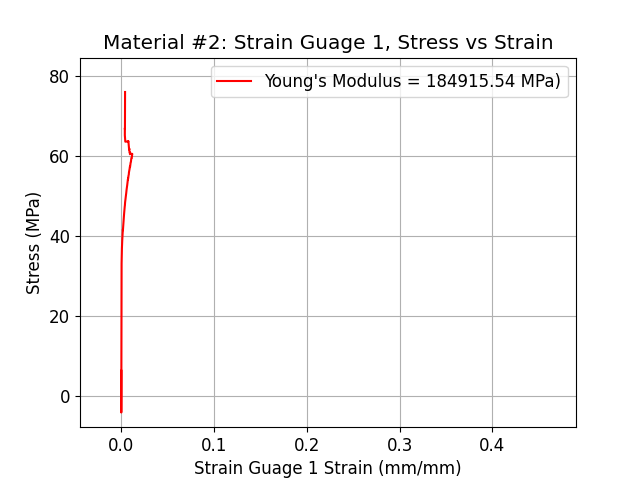
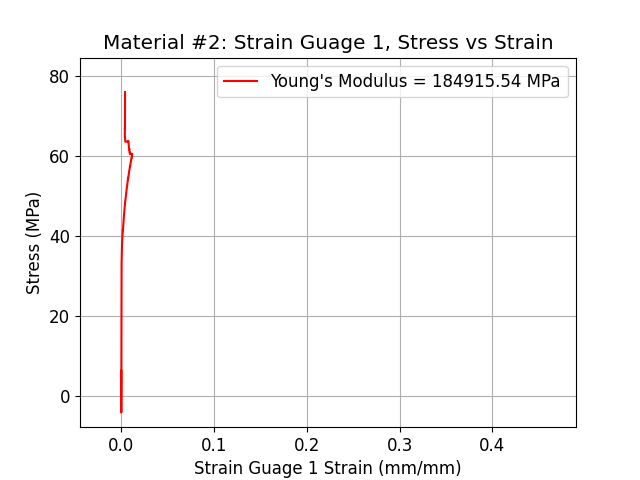
Labels

Changed region(s): [[0.4062, 0.1562, 0.875, 0.1875], [0.3125, 0.125, 0.3438, 0.1875]]

diff --git a/src/graphing.py b/src/graphing.py
@@ -57,16 +57,16 @@ def StrainGraph(data: pd.DataFrame, test_num: np.int8, sensor: np.array, modulus
         if s in ['Laser', 'Strain Guage 2', 'Strain Guage 1']:
             
             if s == 'Laser':
-                plt.scatter(ultimate_strength[0], ultimate_strength[1], s=50)
                 mod = modulus[0]
                 plt.scatter(yield_strength[0], yield_strength[1], s=50)
+                plt.scatter(ultimate_strength[0], ultimate_strength[1], s=50)
             elif s == 'Strain Guage 2':
                 mod = modulus[1]
                 plt.scatter(yield_strength[0], yield_strength[1], s=50)
             else:
                 mod = modulus[2]
             
-            plt.legend([f'Young\'s Modulus = {round(mod, 2)} MPa)', f'Yield Stength = {round(yield_strength[1], 2)}', f'Ultimate Stength = {round(ultimate_strength[1], 2)}'])
+            plt.legend([f'Young\'s Modulus = {round(mod, 2)} MPa', f'Yield Stength = {round(yield_strength[1], 2)} MPa', f'Ultimate Stength = {round(ultimate_strength[1], 2)} MPa'])
 
 
         params = {'mathtext.default': 'regular' }          
